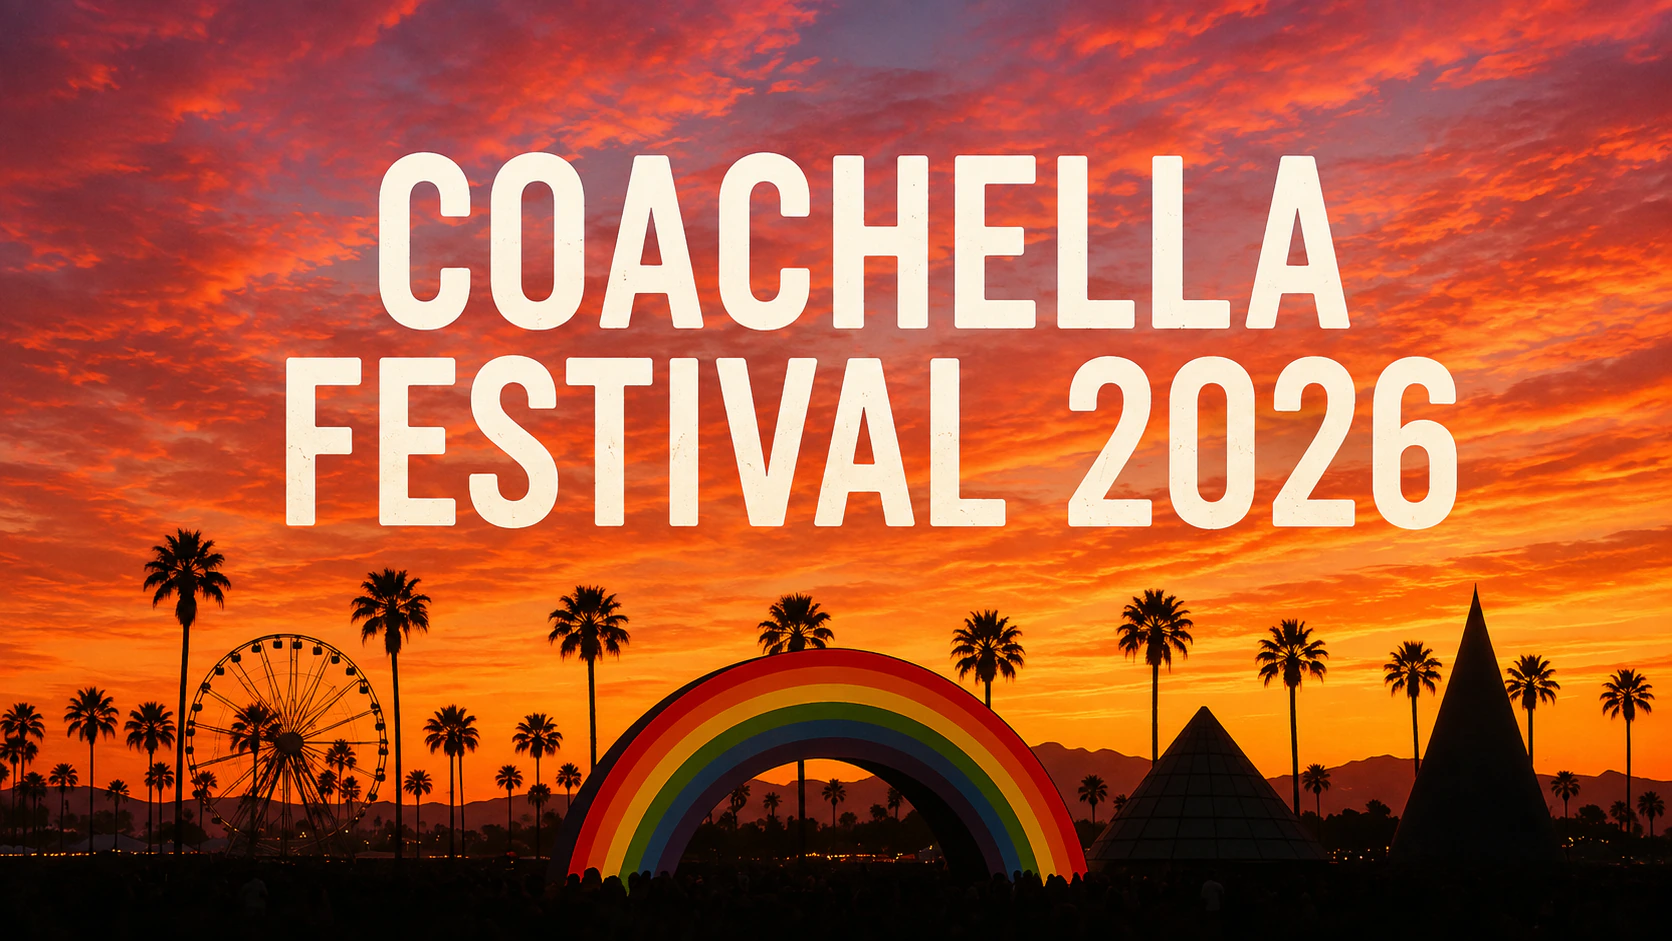
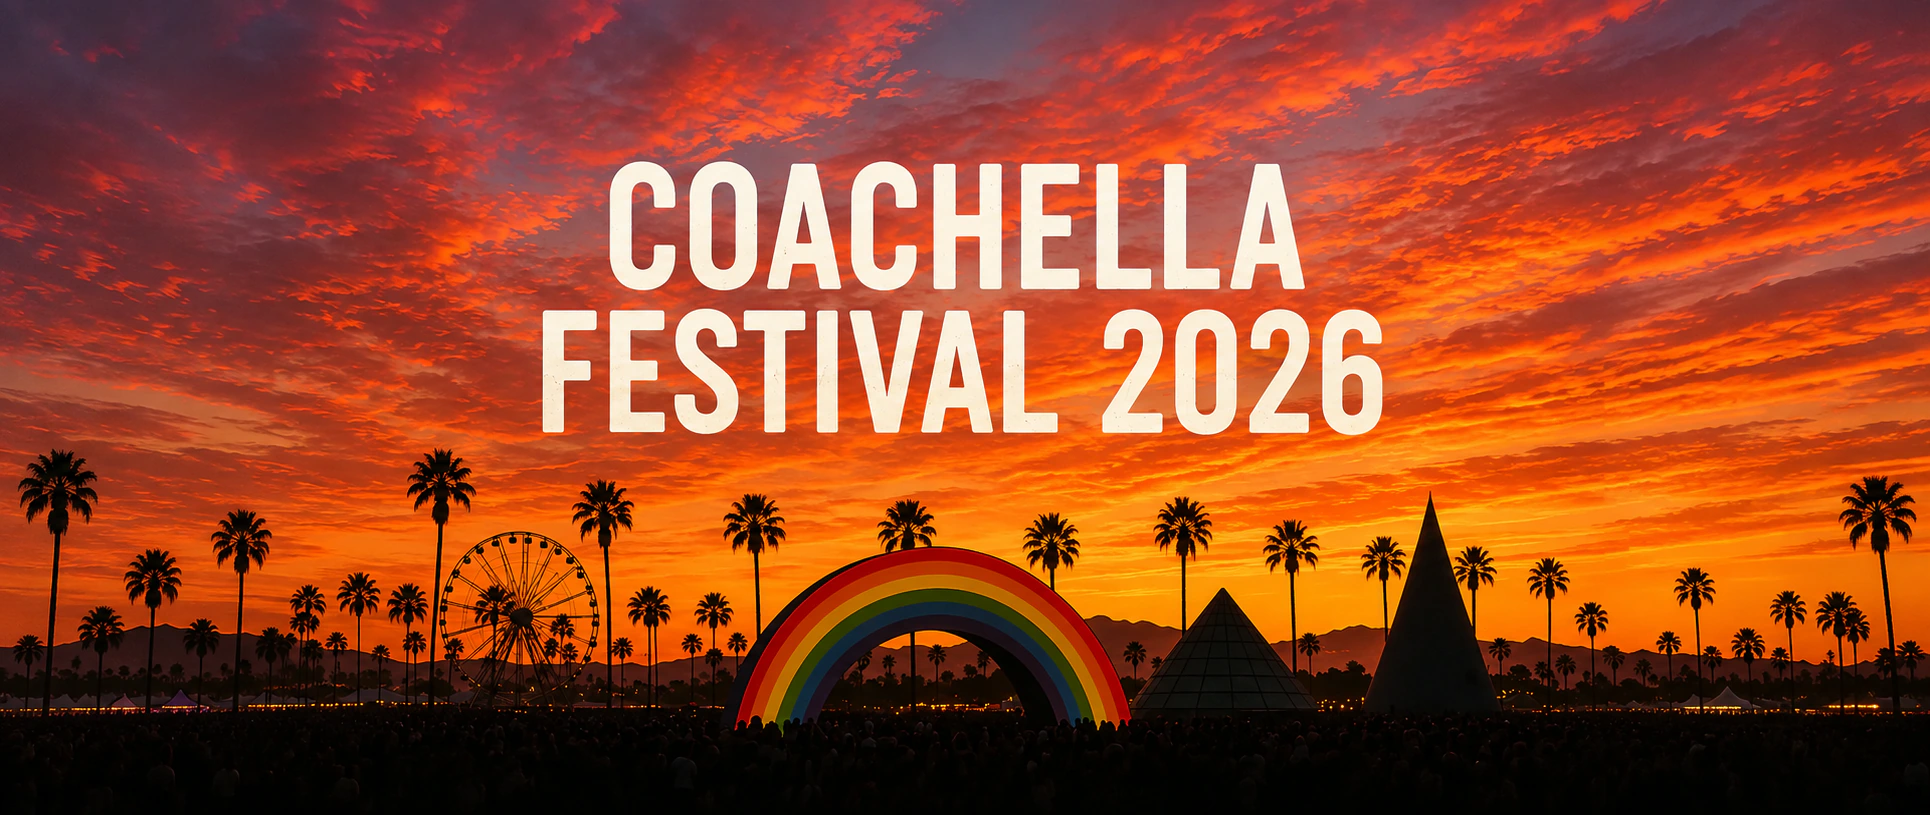
이미지 수정

diff --git a/frontend/src/components/home/BannerNotice/BannerNotice.css b/frontend/src/components/home/BannerNotice/BannerNotice.css
@@ -51,6 +51,7 @@ a.banner-notice__link:focus-visible {
 }
 
 .banner-notice__image {
+  z-index: 1;
   object-fit: cover;
   transform: scale(1.035);
   transition: transform 6.5s ease-out;
@@ -67,7 +68,8 @@ a.banner-notice__link:focus-visible {
 }
 
 .banner-notice__slide--sunset .banner-notice__image {
-  object-position: center top;
+  object-fit: cover;
+  object-position: center;
 }
 
 .banner-notice__slide--violet .banner-notice__overlay,
@@ -97,6 +99,7 @@ a.banner-notice__link:focus-visible {
 }
 
 .banner-notice__overlay {
+  z-index: 2;
   background:
     linear-gradient(90deg, rgba(4, 18, 26, 0.78) 0%, rgba(4, 18, 26, 0.48) 42%, rgba(4, 18, 26, 0.08) 72%),
     linear-gradient(180deg, rgba(3, 18, 25, 0.06) 48%, rgba(3, 18, 25, 0.52) 100%);
@@ -104,7 +107,7 @@ a.banner-notice__link:focus-visible {
 
 .banner-notice__content {
   position: relative;
-  z-index: 1;
+  z-index: 3;
   display: flex;
   flex-direction: column;
   justify-content: center;
